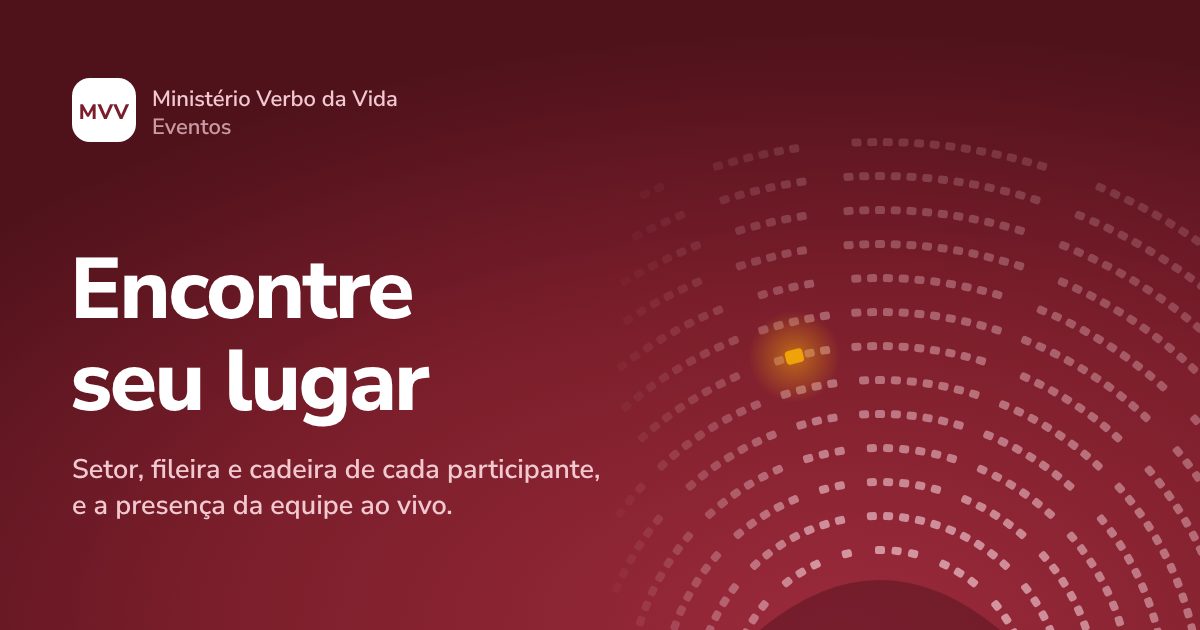
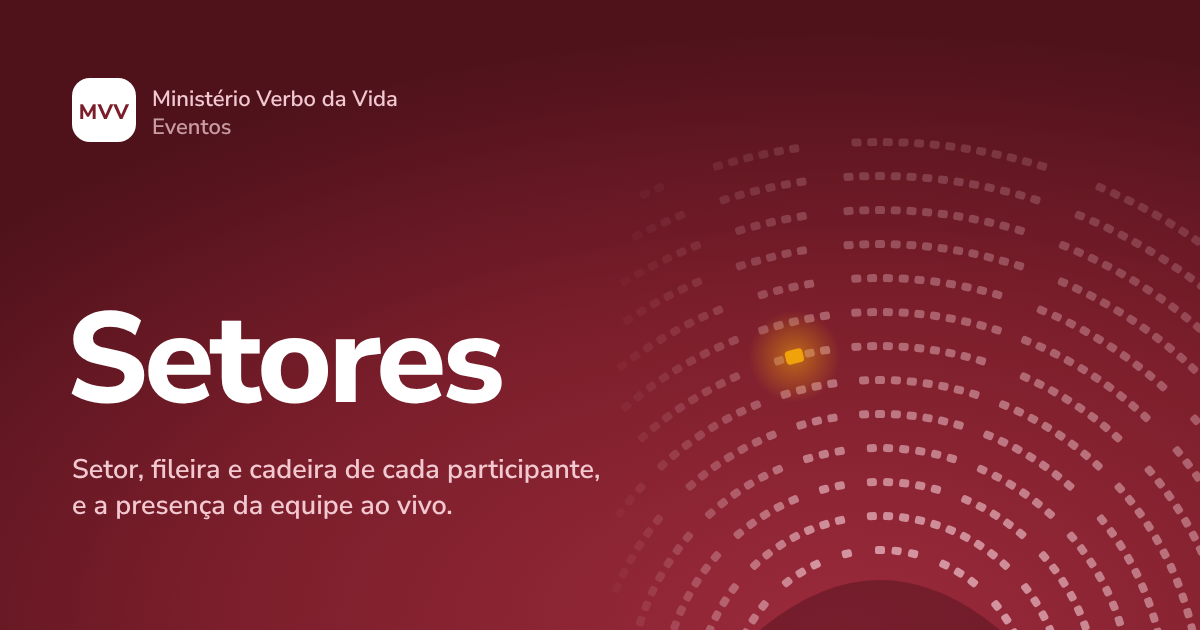
Capa com o nome Setores
Claude-Session: https://claude.ai/code/session_01QQsPF8XeogtLn94jHnRfHZ

Changed region(s): [[0.0617, 0.3921, 0.4317, 0.6937]]

diff --git a/index.html b/index.html
@@ -24,7 +24,7 @@
 <title>Assentos | Eventos MVV</title>
 <meta name="description" content="Encontre seu lugar nos eventos do Ministério Verbo da Vida: setor, fileira e cadeira, e a presença da equipe ao vivo."/>
 <meta property="og:type" content="website"/>
-<meta property="og:title" content="Encontre seu lugar | Eventos MVV"/>
+<meta property="og:title" content="Setores | Eventos MVV"/>
 <meta property="og:description" content="Setor, fileira e cadeira de cada participante, e a presença da equipe ao vivo."/>
 <meta property="og:image" content="https://eventos-mvv.github.io/SETORES-/capa.png"/>
 <meta property="og:image:width" content="1200"/>
